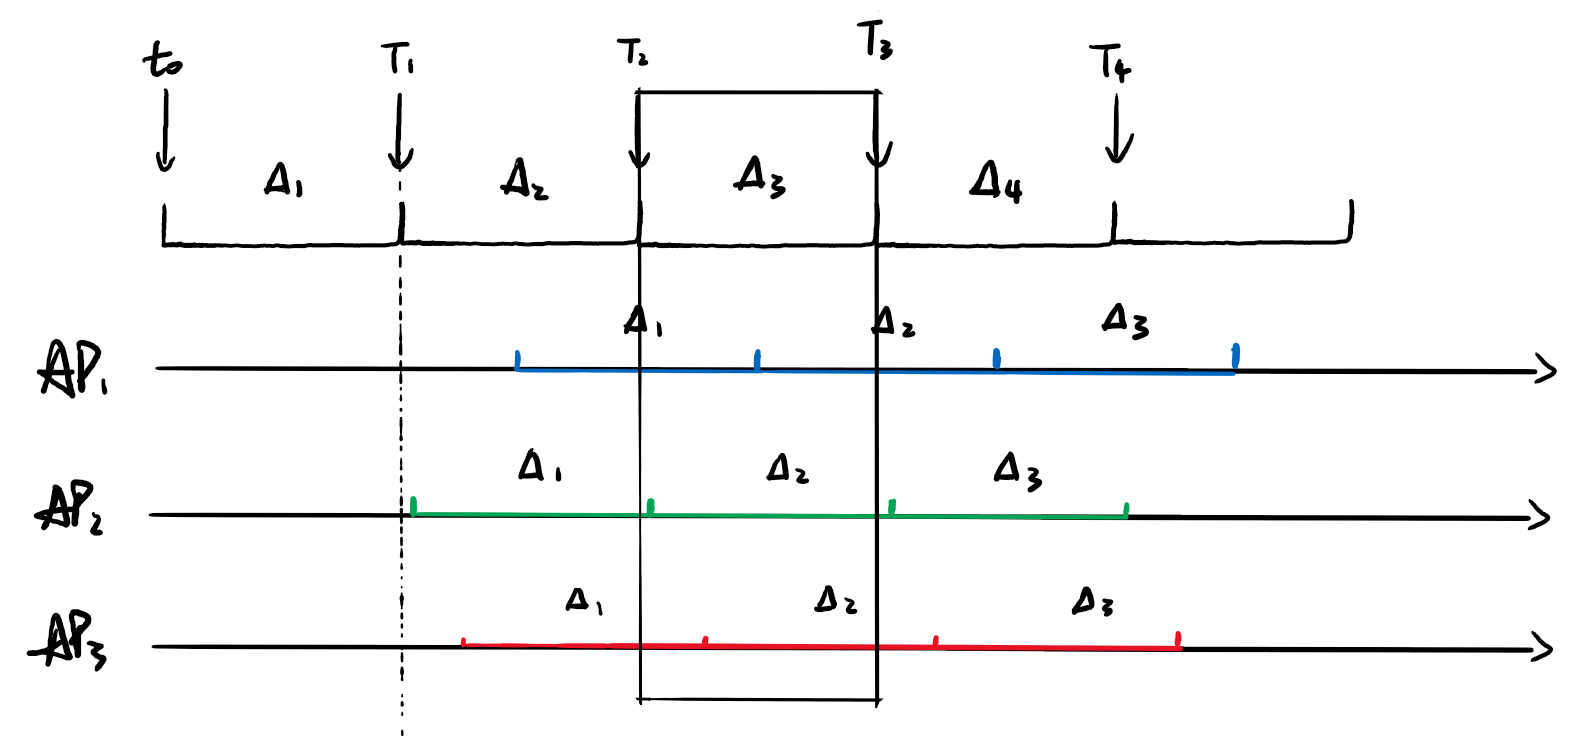
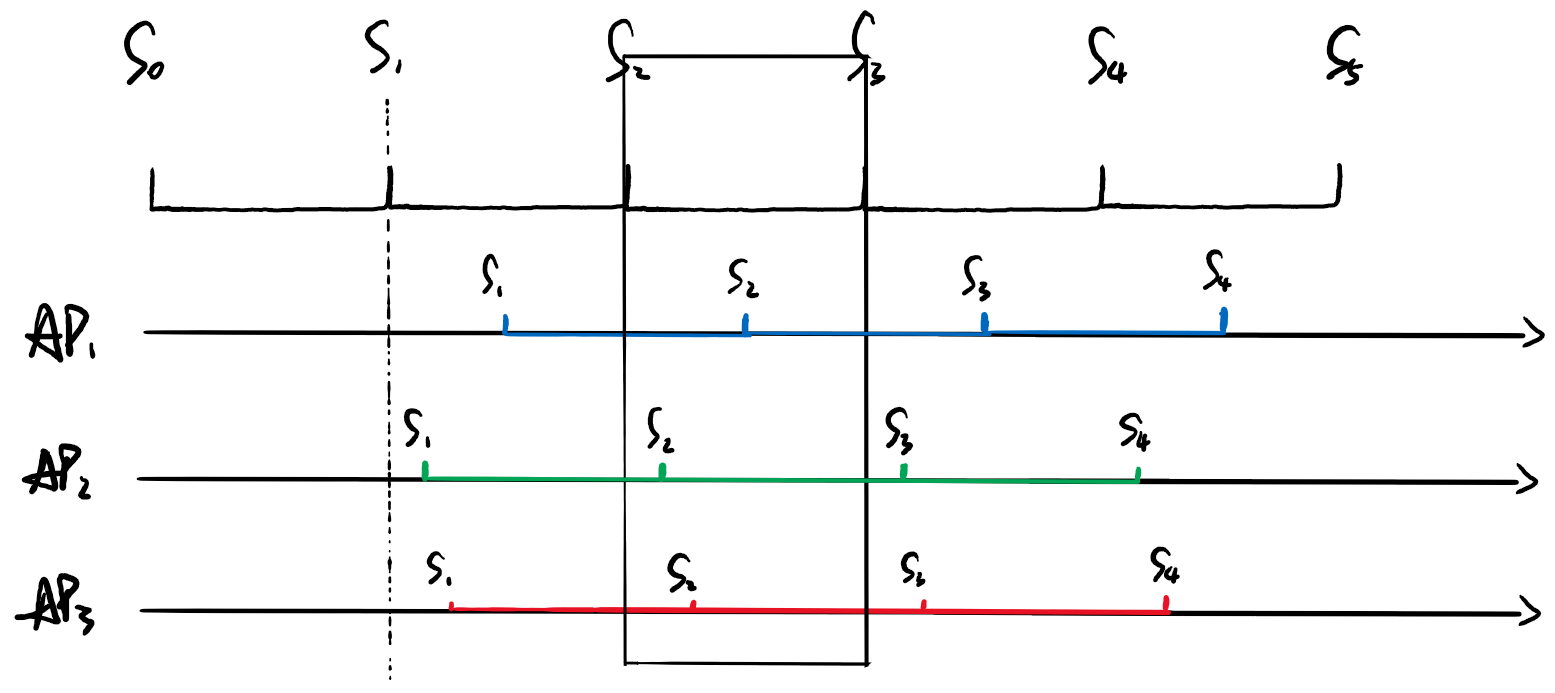
update 1434

diff --git a/main.tex b/main.tex
@@ -29,7 +29,7 @@
 
     %=============================== TITLE ===============================%
     \title{
-        Meet-in-Future: Optimized Dispatching with Obsolete Information in Edge Computing System with MDP
+        Meet-in-Future: Optimized Job Dispatching with Obsolete Information MDP in Edge Computing System
     }
     \author{
         \IEEEauthorblockN{HONG Yuncong}
@@ -88,11 +88,10 @@
             \begin{subsubsection}{Communication Model}
                 The communication model in our system ignores the underlaid physical property and MAC design. We focus on the communication process of uploading of jobs.
                 The assumed uploading time is deterministic and known in advance when the job is released to AP. The uploading time for one job may variance with respect to different ESs from the arrived AP, and the distribution of variance is not known in advance but is guaranteed with an expectation.
-                Moreover, we assume the uploading process could be parallel among jobs which implies infinite capacity, and the end-to-end time is domain by the propagation time and processing time rather than 
-                \\
-                As we are going to apply dispatching action for jobs on AP side, all the AP and ES nodes need to broadcast their jobs' information for cooperation. The broadcast delay is considered deterministic and asynchronous at their own pace.
-                The details of broadcast design about interval and contents will be elaborated in the \textit{Global Optimization Problem} section.
-                For now, we don't take the broadcast cost into consideration because it's not been easily evaluated in the complicated network model (without specified).
+                Moreover, we assume the uploading process could be parallel among jobs which implies almost infinite capacity, and the end-to-end time is domain by the propagation time and processing time rather than communication time due to bandwidth. We identify this feature as the intrinsic property different from cloud computing scenario.
+                
+                When the dispatching action is going to applied from AP agent's view, all the AP and ES nodes need to broadcast their local jobs' information for cooperation. The broadcast delay is considered deterministic and asynchronous at their own pace.
+                The details of broadcast design about interval and contents will be elaborated in the following \textit{Broadcast Model} subsection.
             \end{subsubsection}
 
             \begin{subsubsection}{Computation Model}
@@ -118,7 +117,7 @@
                     \item 
                 \end{itemize}
 
-                The illustration figure \ref{fig:brd} for single broadcast includes several important time points which are also important in multiple asynchronous broadcast: $x_{k,*}, d_{k,*}, T^{br}_{k,*}$
+                The illustration figure \ref{fig:brd} for single broadcast includes several important time points which are also important in multiple synchronous broadcast: $x_{k,j}, d_{k,j}, T^{br}_{k,j}$
                 \begin{figure}[h]
                     \centering
                     \includegraphics[width=0.45\textwidth]{single-broadcast.png}
@@ -126,31 +125,17 @@
                     \label{fig:brd}
                 \end{figure}
                 And with the implication from the single broadcast, we generalize the conclusion for every broadcasts with:
-                $$
-                x_{k,*} = d_{k,*} + T^{Br}_{*}
-                $$
-                which takes a reasonable assumption that $T>d$ always ($*=k',n$ for $k$-th AP).
-
-                Then we come up with the idea with collected broadcast states, which are split by the maximum broadcast interval which is denoted as $\hat{x}_k$:
-                $$
-                \hat{x}_k = \max(x_{k,*})
-                $$
-                And we denote all the partial or completed observed information (states of other nodes) in this smallest covering interval as $\Delta$.
-                We notice that there is one periodic behavior as the broadcast interval is fixed for each node, and the period is simply obtained by LCM (Least Common Multiple):
-                \begin{align*}
-                    p_{k} &= \tilde{x}_k/\hat{x}_k
-                    \\
-                    \tilde{x}_k &= LCM(x_{k,*})
-                \end{align*}
+                \begin{align}
+                    x_{k,j} = d_{k,j} + T^{br}_{j}
+                \end{align}
+                which takes a reasonable assumption that $T>d$ always ($j=k',n$ for $k$-th AP).
             \end{subsubsection}
-
         \end{subsection}
 
         \begin{subsection}{Problem Formulation}
-            As we are considering broadcast delay, we could re-consider the broadcast information as partially observed collected information lasting for some time slots. We formulate the local MDP optimization problem with the same target as global value function, which means that each AP considers the global cost for cooperation but only takes action on itself. As the policy applied on each AP could not obtain the global information, we design the broadcast for every nodes to share their local information to other nodes (APs).
-            
-            Given that broadcast delay is fixed, the length vector of fractions would be also fixed.
-            However, due to the broadcast delay, we could not optimize the original global optimization problem based on states on one single AP. So we develop the local MDP problem with collected broadcast information.
+            In this section we will firstly give out our optimization utility under a reasonable definition of edge computing system. As we are also considering cooperation among AP agents via a delicate broadcast design, we furthermore express the control policy decentralized on each AP agent.
+            By leveraging a delicate broadcast design, all the AP agents could receive the local features about jobs at the broadcast point and the experienced local cost (number of jobs) during the broadcast interval.
+            We formulate the local MDP optimization processes with the same target as the global optimization utility, but all with delayed cost to collect and delayed actions to apply based on the obsolete observation via broadcast. However, due to the different broadcast delay for each agents, the agents come to the consensus global states at different timeslot and thus compose the states transition, which is different from the situation with updated global information on each agents. We will discuss the difference and optimality gap at the end of this section.
 
             \begin{figure}[h]
                 \centering
@@ -161,11 +146,11 @@
 
             \begin{subsubsection}{Optimization Problem}
                 We assume that there are $\mathcal{K}$ APs and $\mathcal{N}$ ESs in the MEC system.
-                The arrival process of jobs at $k$-th AP is: $A^{(k)}(t)=I(t; (L_U, L_C))$ which is a indicator random process. It will return $0$ if no jobs arrive at $t$-th time slot, and return the job with property $(L_U, L_C)$ if one job arrives. $L_U, L_C$ are both vectors of length $\mathcal{N}$ denoting the deterministic uploading time and computation time respectively.
-                $L_U$ is bounded by $T_U$ and $L_C$ is bounded by $T_C$, i.e. $L_U \in [1,T_U]$ and $L_C \in [1,T_C]$.
-                \\
-                For one job $j$, it will wait until the uploading decision is made for it; then it takes $L_U(n)$ time to be uploaded to $n$-th server; after uploaded, it will wait for its turn for computing until all the $L_C(n)$ components are processed and leave the system.
-                \\
+                The arrival process of jobs at $k$-th AP is: $A^{(k)}(t)=I[t; L_C]$ which is a indicator random process. It will return $0$ if no jobs arrive at $t$-th time slot, and return the job with property $L_C$ if one job arrives, where $L_C$ is a vector of length $\mathcal{N}$ denoting the deterministic computation time on unrelated machines.
+                The computation time $L_C$ is bounded by $T_C$, i.e. $L_C \in [1,T_C]$.
+                
+                For one job $j$, it will wait until the uploading decision is made for it. Then it takes a general $T^{(U)}$ time to be uploaded to $n$-th server; after uploaded, it will wait for its turn for computing until all the $L_C(n)$ components are processed and leave the system.
+                
                 Our optimization target is to minimize the average waiting time and computation time for each job, which is called the jobs' average response time. According to \emph{Little’s Law}, to minimize average response time, is equal to minimize the average number of jobs in a system, which is:
                 \begin{gather}
                     \min_{\pi} \lim_{T \to \infty} E[\frac{1}{T} \sum_{t=0}^{T} N(t)]
@@ -178,9 +163,9 @@
             \end{subsubsection}
 
             \begin{subsubsection}{Single-Step Transition}
-                We adapt the description at grains of jobs and formulate the states into job sets at APs and ESs:
-                \begin{gather*}
-                    \mathbf{S}_g(t) \triangleq
+                We adapt the description at job-level grains and formulate the states into job sets at APs and ESs:
+                \begin{align}
+                    \mathbf{S}(t) \triangleq
                     \begin{Bmatrix}
                         S_{k}^{(W)}(t) = \{ (L_C) \}_{N_{k}^{(W)}}
                         \\
@@ -189,8 +174,8 @@
                         S_{n}^{(C)}(t)  = \{ L_{cd}^{(C)}(t) \}_{N_{n}^{(C)}}
                     \end{Bmatrix}
                     _{k \in [1,\mathcal{K}], n \in [1,\mathcal{N}]}
-                \end{gather*}
-                where $L_C$ is a constant vector of length $\mathcal{N}$ with each denoting the computation time of that job on each server; and $L^{(U)}_{cd}(t), L^{(C)}_{cd}(t)$ are countdowns for uploading and computing time remained for that job.
+                \end{align}
+                where $L_C$ is a constant vector of length $\mathcal{N}$ with each denoting the computation time of that job on each server; and $L^{(U)}_{cd}(t), L^{(C)}_{cd}(t)$ are countdowns for uploading and computing time remained for that job respectively.
             
                 \begin{figure}[h]
                     \centering
@@ -200,56 +185,65 @@
                 \end{figure}
 
                 Firstly, we come up with some useful denotations for transmission expressed in figure \ref{fig:trans} as:
-                \begin{align*}
+                \begin{align}
                     I^{(W \to U)}_{k,n}(N;L) &\triangleq \{ (L_i),L^{(U)}_{cd}:=T^{br}_{k,n} \}_{i \in N}
-                        \\
-                    I^{(U \to C)}_{n}(N;L) &\triangleq \{ L^{(C)}_{cd}:=L_i \}_{i \in N}
-                \end{align*}
-                and we have the disturbance existing in the system as:
-                \begin{gather*}
-                    \Pr\{ I^{(W \to U)}(t) | S_{k}^{(W)}(t),A^{(k)}(t), a(t) \}
                     \\
-                        = \Pr\{ A^{(k)}(t) \} \times \pi(a, S_g(t)|A^{(k)}(t))
-                \end{gather*}
+                    I^{(U \to C)}_{n}(N;L) &\triangleq \{ L^{(C)}_{cd}:=L_i \}_{i \in N}
+                \end{align}
+                and we have the disturbance existing in the system as:
+                \begin{align}
+                    & \Pr\{ I^{(W \to U)}(t) | S_{k}^{(W)}(t),A^{(k)}(t), a(t) \}
+                    \\
+                    = & \Pr\{ A^{(k)}(t) \} \times \pi(a, S_g(t)|A^{(k)}(t))
+                \end{align}
                 where $I^{(W \to U)}(t)$ implies transition function for $S^{(W)}_{k}(t+1)$ and $S^{(U)}_{k,n}(t+1)$;
 
                 The states transition on ES is easily obtained as following because the computation process on ES is deterministic:
-                \begin{gather}
-                    \Pr\{ S_{n}^{(C)}(t+1) |S_{n}^{(C)}(t), (S_{k}^{(U)}(t))_{k \in [1,\mathcal{K}]} \} = 1
-                \end{gather}
-                The other interesting properties exists in the situation that when only states of ES is presence and the constraints are inversely put on APs. With \emph{Bayes' Law}, we could have:
                 \begin{align}
-                    & \Pr\{ \sum{S_k(t)} | S_n(t,t+1) \} \nonumber\\
-                    =& \frac{ \Pr\{\sum{S_k(t)}\} \cdot \Pr\{S_n(t,t+1)|\sum{S_k(t)}\} }{ \Pr\{S_n(t,t+1)\} } \nonumber\\
-                    =& \frac{
-                            \prod_k \Pr\{S_k(t)\}
-                        }{
-                            \Pr\{S_n(t,t+1)\}
-                        }
+                    \Pr\{ S_{n}^{(C)}(t+1) |S_{n}^{(C)}(t), (S_{k}^{(U)}(t))_{k \in [1,\mathcal{K}]} \} = 1
                 \end{align}
-                where $S_n(t,t+1) \triangleq S_{n}^{(C)}(t+1) |S_{n}^{(C)}(t)$, and $\sum{S_k(t)} \triangleq \{S_{k}^{(U)}(t)\}_{k \in [1,K]}$.
+
+                % The other interesting properties exists in the situation that when only states of ES is presence and the constraints are inversely put on APs. With \emph{Bayes' Law}, we could have:
+                % \begin{align}
+                %     & \Pr\{ \sum{S_k(t)} | S_n(t,t+1) \} \nonumber\\
+                %     =& \frac{ \Pr\{\sum{S_k(t)}\} \cdot \Pr\{S_n(t,t+1)|\sum{S_k(t)}\} }{ \Pr\{S_n(t,t+1)\} } \nonumber\\
+                %     =& \frac{
+                %             \prod_k \Pr\{S_k(t)\}
+                %         }{
+                %             \Pr\{S_n(t,t+1)\}
+                %         }
+                % \end{align}
+                % where $S_n(t,t+1) \triangleq S_{n}^{(C)}(t+1) |S_{n}^{(C)}(t)$, and $\sum{S_k(t)} \triangleq \{S_{k}^{(U)}(t)\}_{k \in [1,K]}$.
             \end{subsubsection}
 
             \begin{subsubsection}{Multi-Step Transition}
-                We adapt aligned broadcast in practice, and broadcast all the local information between the broadcast interval to establish consensus on the global states. And the agents would take action on the obsolete observed states.
+                We adapt aligned broadcast in practice, and all of nodes will broadcast their local features at the point of broadcast, and the cost collected in the broadcast interval.
+                This joint information composes obsolete observations on all the AP nodes, and the nodes thus establish consensus on the global states. We assume that AP agents would take action on the one-step-backward obsolete observed states which result into a Markovian process and will be explained followed.
 
-                We denote the collective global states between broadcasts as:
-                \begin{align}
-                    & \Delta_1, \Delta_2, \Delta_3, \dots
+                We denote the collective global consensus observation on local features as:
+                \begin{align*}
+                    & S_0, S_1, S_2, S_3, \dots
                     \\
-                    \text{where, } & \Delta_i \triangleq \{S(t)\}_{t \in [iT^{br},(i+1)T^{br})} \nonumber
-                \end{align}
-                and it stresses that each agent all maintains the same $\Delta_i$ for a $T^{br}$ period but not aligned, due to different consensus delay $\hat{d}_k$ on each agent.
+                    \text{where, } & S_i \triangleq S(iT^{br}) \nonumber
+                \end{align*}
+                and it stresses that each agent all maintains the same $S_i$ for a $T^{br}$ period but not aligned due to different consensus delay $\hat{d}_k$ on each agent.
                 
-                In this consensus formulation, we actually let every agents know the global states with different deterministic delay. The delayed information doesn't impact on global states formulation of MDP problem, but converted into delayed composed action. For example, the agent would take actions based both on global states $\Delta_1$ and $\Delta_2$ in the period of $\Delta_3$, because in the first half period it doesn't come to consensus on global states $\Delta_2$.
+                In this consensus formulation, we actually let every agents know the global states with different deterministic delay. The delayed information doesn't impact on global states formulation of MDP problem, but converted into delayed composed action. For example, the agent would take actions based both on global states $S_1$ and $S_2$ in the period of $S_3$, because in the first half period it doesn't come to consensus on global states $S_2$.
 
-                This implies that: \hl{We meet the states in future with actions traced back in past}. The insight exists in agents would contribute into global state transition, but the limited observation with obsolete information makes them always choose action on one-step-latter global states. So, one agent should carry out \emph{policy improvement} with other agents fix their action in this period for convenience and it comes to convergence always as the observations do not change with respect to policies. 
+                This implies that: \hl{The agents meet states in future with actions traced back into past}. The insight exists in agents would contribute into global state transition, but the limited observation with obsolete information makes them always choose action based on the one-step-latter global states. So, one agent should carry out \emph{policy improvement} with other agents who fix their actions in this period for convenience. This improvement iteration comes to convergence always as the observations do not change with respect to policies.
 
                 To formulate the transition between states, we firstly give out the denotation for single-step transition with fixed policy as:
                 \begin{align}
                     p(\vec{\Omega}) \triangleq \Pr\{ S(t+1)|S(t), \vec{\Omega},\vec{A}(t) \}
                 \end{align}
                 And we sort the index of AP due to their consensus delay $\hat{d}_k$ from small to big, i.e. $\hat{d}_1 \leq \hat{d}_2 \leq \dots \hat{d}_{\mathcal{K}}$. This order is kept as presumption in the follow section.
+                
+                \begin{figure}[h]
+                    \centering
+                    \includegraphics[width=0.45\textwidth]{broadcast-trans.png}
+                    \caption{Global Consensus and Transition with Delayed Action}
+                    \label{fig:br-trans}
+                \end{figure}
 
                 For the global broadcast interval $T^{br}$ we have the following composed action denotations as:
                 \begin{align}
@@ -280,53 +274,42 @@
                     & \Pr\{\Delta_{i+1}, \Delta_{i} | \Delta_{i}, \Delta_{i-1}, \vec{\Omega}(\Delta_i), \vec{\Omega}(\Delta_{i-1})\} \nonumber\\
                     = & \prod_{\Delta{t}} p(\vec{\Omega}_{\Delta{t}})
                 \end{align}
-                Then we denote $\tilde{\Delta}_{i} \triangleq (\Delta_{i+1}, \Delta_{i})$ and try to convert this probabilistic transition into MDP form as:
-                \begin{align}
-                    & Pr\{ \tilde{\Delta}_i | \tilde{\Delta}_{i-1}, \Omega(\tilde{\Delta}_{i-1}) \} \nonumber\\
-                    = & 
-                \end{align}
-
-                \begin{figure}[h]
-                    \centering
-                    \includegraphics[width=0.45\textwidth]{broadcast-trans.png}
-                    \caption{Global Consensus and Transition with Delayed Action}
-                    \label{fig:br-trans}
-                \end{figure}
-                Then we have some notations for short expression of the transition from $\Delta_{i}$ to $\Delta_{i+1}$ as:
-                \begin{align}
-                    P_k(T,a) &\triangleq \Pr\{ S^{(W,U)}_{k,D_T}|S^{(W,U)}_{k,D_1}, a_{\vec{D_T}},A^{(k)}_{\vec{D_T} }\}
-                    \\
-                    P_n(T) &\triangleq \Pr\{ S^{(C)}_{n,D_T}|S^{(C)}_{n,D_1}, S^{(U)}_{k,\vec{D_T}} \}
-                \end{align}
+                Then we denote $\tilde{\Delta}_{i} \triangleq (\Delta_{i+1}, \Delta_{i})$ and try to convert this probabilistic transition into MDP form as $\Pr\{ \tilde{\Delta}_i | \tilde{\Delta}_{i-1}, \vec{\Omega}(\tilde{\Delta}_{i-1}) \}$, where $\vec{\Omega}(\tilde{\Delta}_{i-1}) \equiv \vec{\Omega}_{\Delta{t}}$.
             \end{subsubsection}
 
         \end{subsection}
 
-        \begin{subsection}{Global MDP Comparision}
-            In this section, we give out the formulation of the global optimization problem with updated information under MDP framework. The algorithm for this problem would be trivial and 
-            under the framework of MDP. In this section, we firstly ignore the obsolete information brought by the broadcast delay and assume a centralized agent could observe the global states in real-time. This formulation could help better understanding the structure of the problem and analyzing the optimality gap from the real localized optimization elaborated in next section.
+        \begin{subsection}{Standard MDP Formulation}
+            We formulate the standard MDP problem in this section.
 
-            \begin{subsubsection}{Cost Function and Bellman Equation}
-                According to the optimization target, we have the cost-to-go expression as followed:
-                $$
-                c(t) = \sum_{k \in \mathcal{K}}{|S^{(W)}_{k}(t)|}
-                        + \sum_{k \in \mathcal{K}}\sum_{k \in \mathcal{N}}{|S^{(U)}_{k,n}(t)|}
+            \begin{subsubsection}{States}
+                \begin{align}
+                    T_t \triangleq \begin{pmatrix}
+                        S_t \\ S_{t+1} \\ C(T_t)
+                    \end{pmatrix}
+                \end{align}
+            \end{subsubsection}
+
+            \begin{subsubsection}{Action and Policy}
+                \begin{align}
+                    \Omega^{(k)}(S_t)
+                \end{align}
+            \end{subsubsection}
+
+            \begin{subsubsection}{Discounted Costs}
+                \begin{align}
+                    c(t) = \sum_{k \in \mathcal{K}}{|S^{(W)}_{k}(t)|}
+                        + \sum_{k \in \mathcal{K}}\sum_{n \in \mathcal{N}}{|S^{(U)}_{k,n}(t)|}
                         + \sum_{k \in \mathcal{N}}{|S^{(C)}_{n}(t)|}
-                $$
+                \end{align}
+            \end{subsubsection}
+
+            \begin{subsubsection}{Bellman Equation}
                 The value equation in Bellman Equation format is as followed:
-                $$
-                V^{\pi}(S_g) = \sum_{S'_g} T(S_g, \pi(S_g), S'_g) (C(S_g') + \gamma V^{\pi}(S'_g))
-                $$
-                (need modification) where the dimension of possible $S'_g$ is:
-                $$
-                1 \times \sum{2^{|S^{(W)}_k|}} + (T_C \times T_U) \times \sum{2^{|S^{(W)}_k|+1}}
-                $$
-                and $C(S'_g)$ is the expectation of $c(t)$ given the arrival process as:
-                \begin{align*}
-                    C(S'_g) &= E[c(t)|(A^{(k)}(t))_{k \in [1,\mathcal{K}]}]
-                    \\
-                    &= 
-                \end{align*}
+                \begin{align}
+                    V^{\Omega^{(k)}} = C(T_t) + \gamma \sum \Pr(T_{t+1}|T_{t}, \vec{\Omega}) V^{\Omega}(T_{t+1})
+                \end{align}
+                where the dimension of possible $T_t$ is: ???; and $C(T_t)$ is the expectation of $c(t)$ given the arrival process as ???.
             \end{subsubsection}
         \end{subsection}
         
